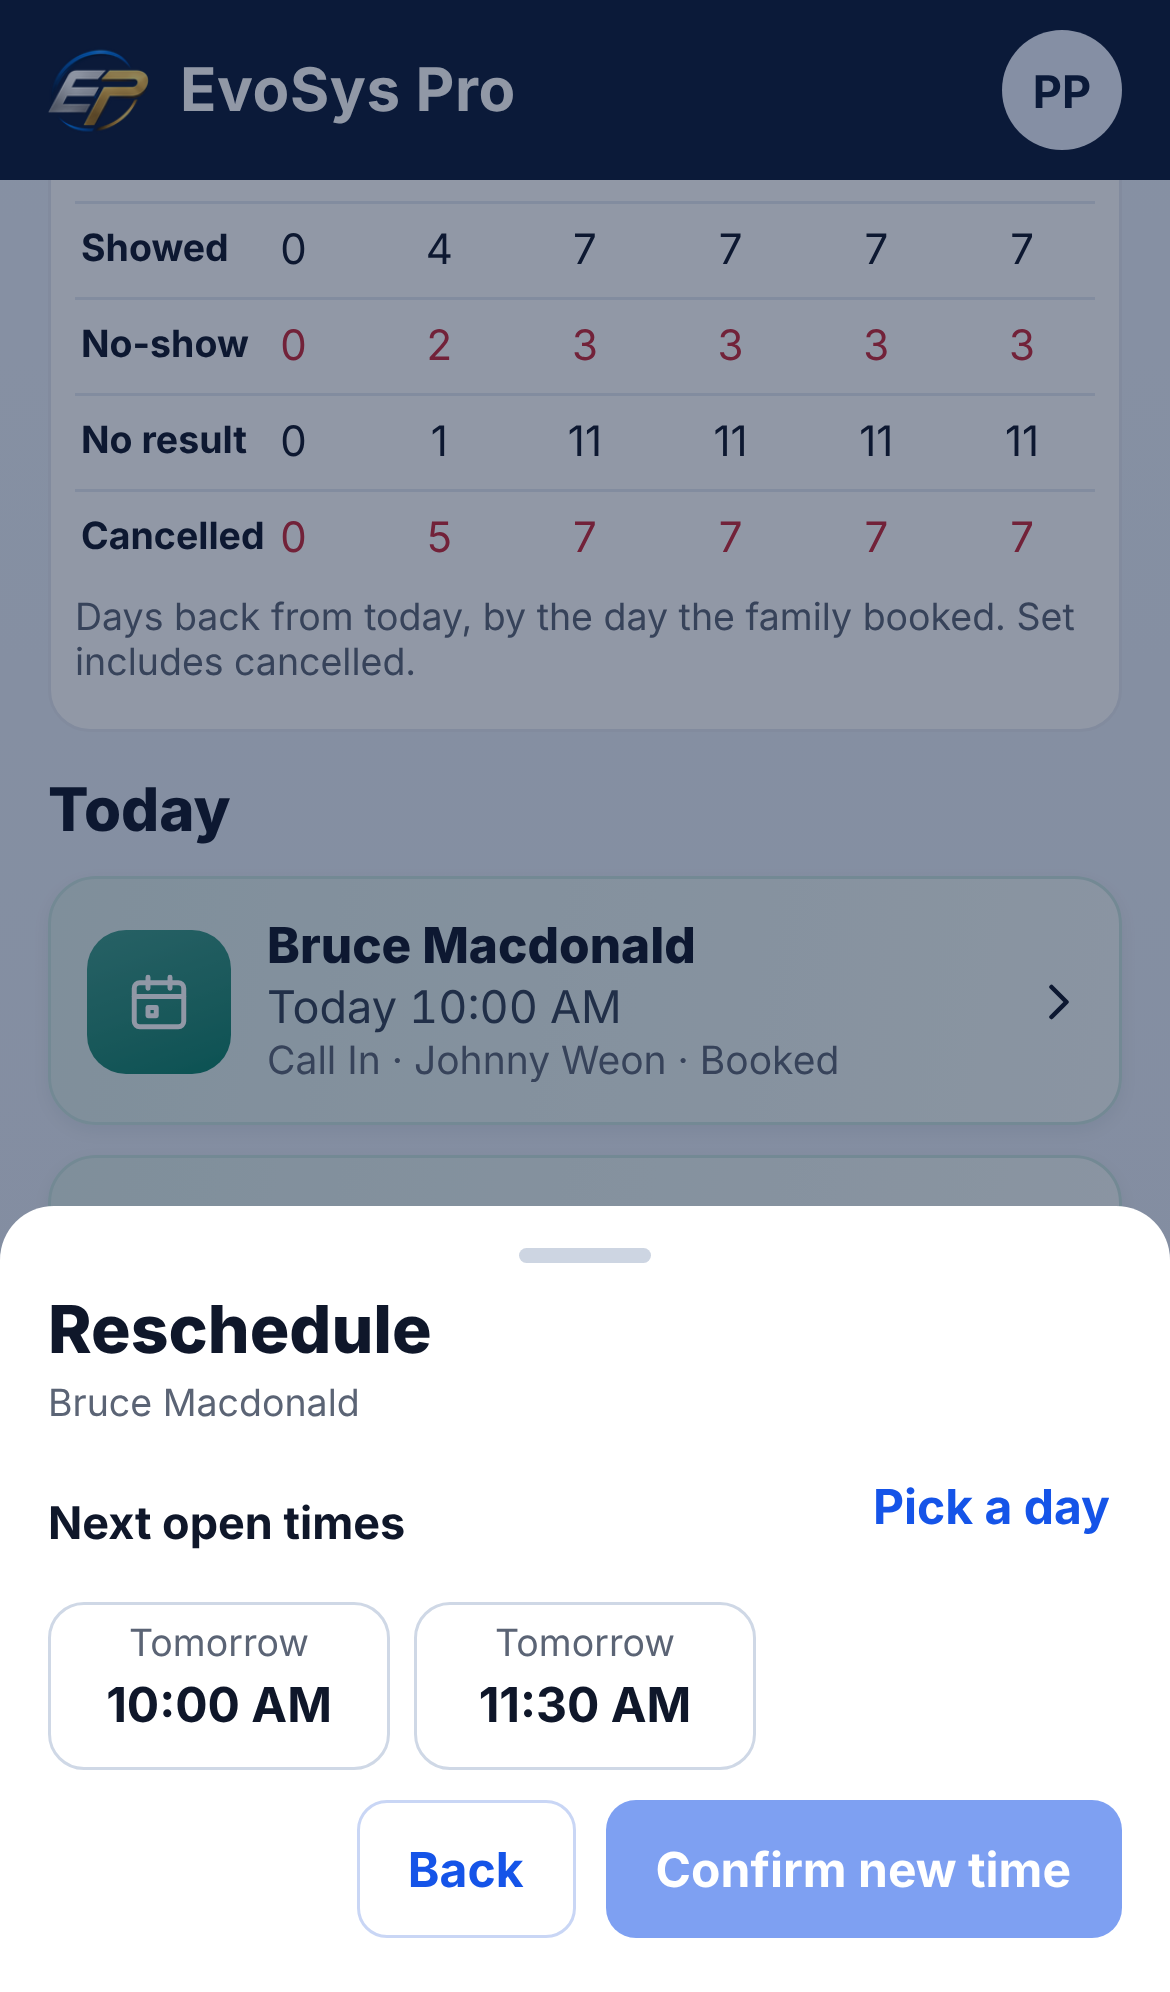
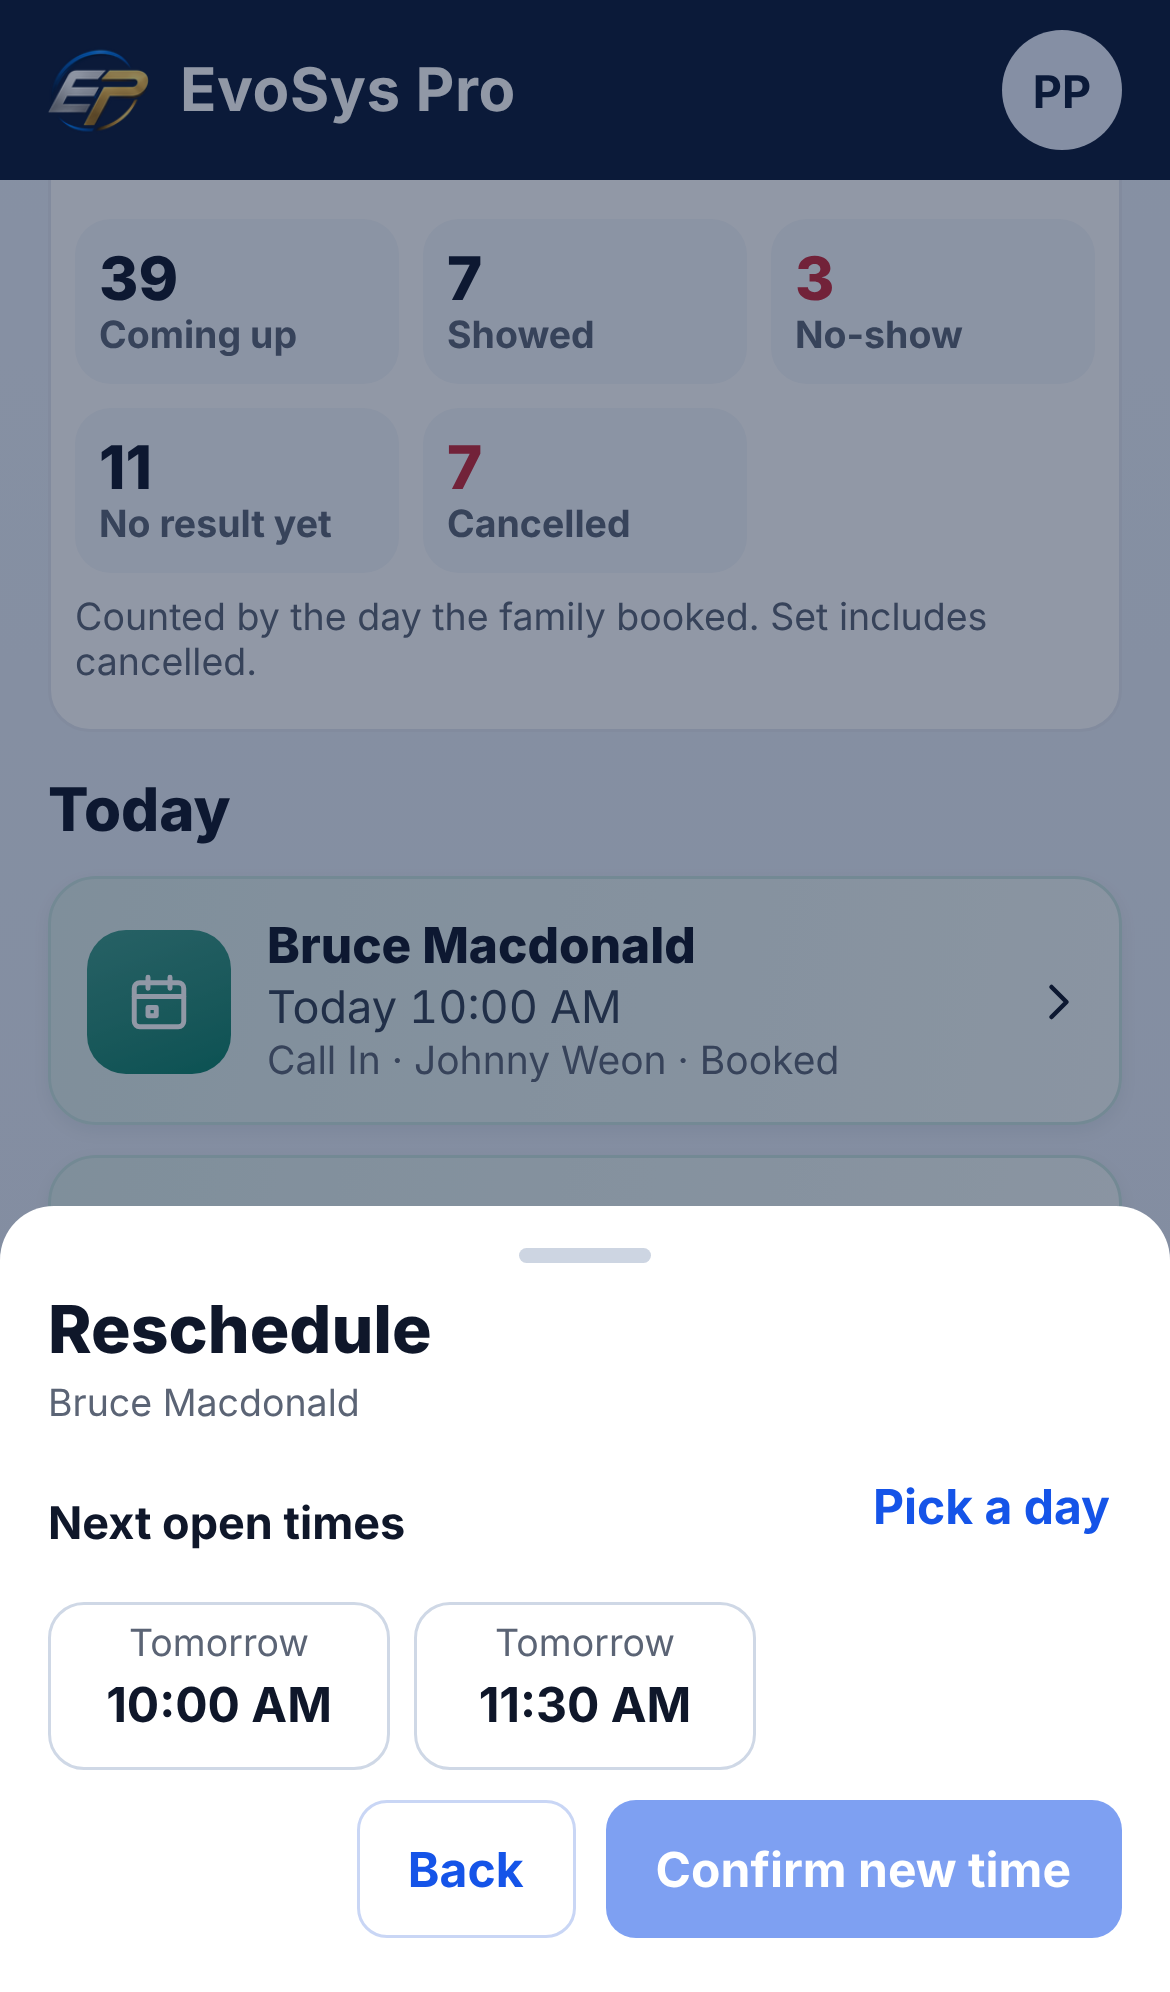
Phone BookIT: Appointments set shows one period at a time - tap Today / 7 / 30 / 45 / 60 days / All time (#864)
Claude-Session: https://claude.ai/code/session_0185J8FFbSSUYRVtddwmr4dP

diff --git a/frontend/src/teamapp/BookitPhone.jsx b/frontend/src/teamapp/BookitPhone.jsx
@@ -111,21 +111,30 @@ export function BookitDashboard({ item }) {
   )
 }
 
-// Appointments set (owner, Nov 27): 1, 7, 30, 45, 60 days and all time, cancelled included.
-const SET_ROWS = [['set', 'Set'], ['upcoming', 'Coming up'], ['showed', 'Showed'], ['no_show', 'No-show'],
-  ['no_result', 'No result'], ['cancelled', 'Cancelled']]
-const SHORT = { 'Today': '1', '7 days': '7', '30 days': '30', '45 days': '45', '60 days': '60', 'All time': 'All' }
+// Appointments set (owner, Nov 27): pick 1, 7, 30, 45, 60 days or all time and
+// see that one period - not every period at once.
+const SPANS = [['Today', 'Today'], ['7 days', '7 days'], ['30 days', '30 days'], ['45 days', '45 days'],
+  ['60 days', '60 days'], ['All time', 'All time']]
+const SET_PARTS = [['upcoming', 'Coming up'], ['showed', 'Showed'], ['no_show', 'No-show', true],
+  ['no_result', 'No result yet'], ['cancelled', 'Cancelled', true]]
 function SetTable({ spans }) {
+  const [pick, setPick] = useState('30 days')
+  const r = spans.find(x => x.label === pick) || spans[0]
   return (
     <section className="ta-section">
       <h2 className="ta-h2">Appointments set</h2>
+      <div className="ta-chips ta-set-chips" role="tablist" aria-label="Period">
+        {SPANS.map(([key, label]) => (
+          <button key={key} type="button" role="tab" aria-selected={pick === key}
+                  className={'ta-chip' + (pick === key ? ' is-on' : '')} onClick={() => setPick(key)}>{label}</button>))}
+      </div>
       <div className="ta-card ta-set">
-        <table className="ta-set-t">
-          <thead><tr><th />{spans.map(r => <th key={r.label}>{SHORT[r.label] || r.label}</th>)}</tr></thead>
-          <tbody>{SET_ROWS.map(([k, l]) => (
-            <tr key={k} className={'r-' + k}><th>{l}</th>{spans.map(r => <td key={r.label}>{r[k] ?? '–'}</td>)}</tr>))}</tbody>
-        </table>
-        <p className="ta-muted ta-small">Days back from today, by the day the family booked. Set includes cancelled.</p>
+        <div className="ta-set-big"><strong>{r.set ?? 0}</strong><span>set {pick === 'Today' ? 'today' : pick === 'All time' ? 'all time' : 'in the last ' + pick}</span></div>
+        <ul className="ta-set-parts">
+          {SET_PARTS.map(([k, l, bad]) => (
+            <li key={k} className={bad && r[k] ? 'is-bad' : ''}><strong>{r[k] ?? 0}</strong><span>{l}</span></li>))}
+        </ul>
+        <p className="ta-muted ta-small">Counted by the day the family booked. Set includes cancelled.</p>
       </div>
     </section>
   )

diff --git a/frontend/src/teamapp/teamapp.css b/frontend/src/teamapp/teamapp.css
@@ -524,3 +524,15 @@
 .ta-set-t tr:last-child th, .ta-set-t tr:last-child td { border-bottom: 0; }
 .ta-set-t tbody th { width: 34%; white-space: nowrap; font-size: 12.5px; }
 .ta-set-t thead th:first-child::after { content: 'Days'; }
+.ta-set-chips { display: flex; gap: 8px; overflow-x: auto; padding-bottom: 6px; margin-bottom: 8px; -webkit-overflow-scrolling: touch; }
+.ta-set-chips .ta-chip { flex: 0 0 auto; white-space: nowrap; }
+.ta-set-big { display: flex; align-items: baseline; gap: 10px; padding: 4px 6px 10px; }
+.ta-set-big strong { font-size: 40px; font-weight: 800; color: #087F68; line-height: 1; }
+.ta-set-big span { font-size: 15px; font-weight: 700; color: var(--ta-muted); }
+.ta-set-parts { list-style: none; margin: 0 0 8px; padding: 0; display: grid; grid-template-columns: repeat(3, 1fr); gap: 8px; }
+.ta-set-parts li { background: #f4f7fb; border-radius: 12px; padding: 8px; display: flex; flex-direction: column; }
+.ta-set-parts strong { font-size: 20px; font-weight: 800; }
+.ta-set-parts span { font-size: 12.5px; color: var(--ta-muted); font-weight: 700; }
+.ta-set-parts li.is-bad strong { color: #C62839; }
+.ta-set-chips { display: grid; grid-template-columns: repeat(3, 1fr); overflow: visible; padding-bottom: 0; }
+.ta-set-chips .ta-chip { justify-content: center; padding: 0 6px; }
